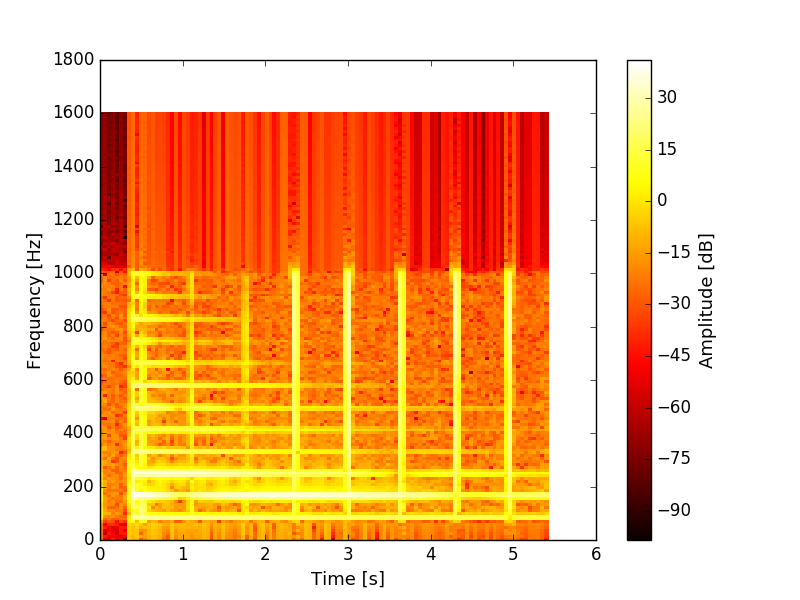
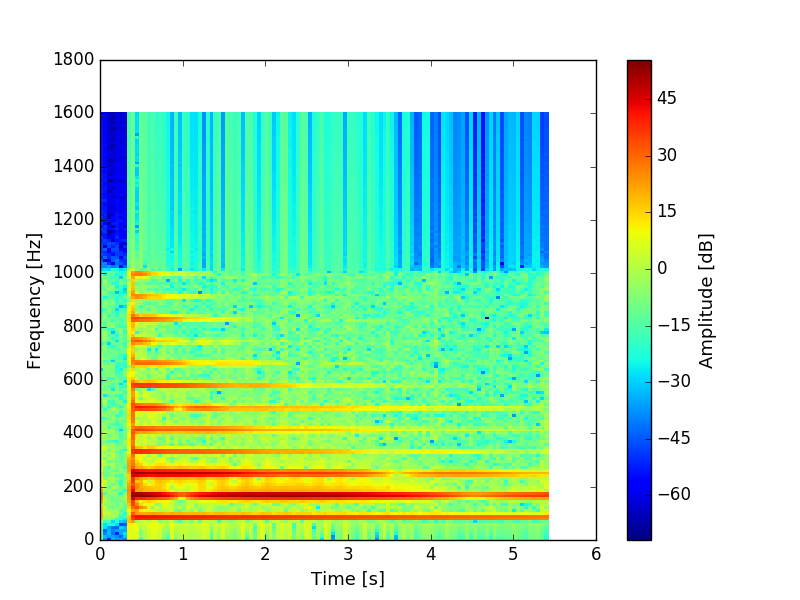
T

diff --git a/Rapport/sections/mainmatter/chapter_10/Peak_detection_algorithm.tex b/Rapport/sections/mainmatter/chapter_10/Peak_detection_algorithm.tex
@@ -1,16 +1,16 @@
 \label{sec:peak_detection}
-In this section a tone-locating algorithm will be implemented by peak amplitude detection.
-This is further tested with the specifications given in section \ref{sec:testspec}.
+In this section a simplified tone-locating algorithm will be implemented by peak amplitude detection.
+The algorithm is tested with the specifications given in section \ref{sec:testspec}.
 %The integration is validated according to the test specifications in \ref{ch3}
 \subsection{Implementation of peak detection}
-To figure out which single tone is being played in a given audio file at a given time, the STFT is analyzed, and the peak amplitude of a given time is detected.
+To figure out which single tone is being played in a given audio file at a given time, the STFT is analysed, and the peak amplitude of a given time is detected.
 The visualization of this is a plot of the peaks in the output spectrogram over time.
 \\ \\
 The frequency with the highest amplitude, and henceforth the largest amount of energy, is the most represented frequency. 
 In an audio file this will be the frequency of the tone being played or one of the harmonics of this frequency, cf. chapter \ref{ch2}.
 This assumption will hold as long as the signal-to-noise ratio, SNR, of the signal is not smaller than a given lower limit, which is further explored in chapter \ref{ch11}. \\
-With the signal transformed by the STFT each segmented data set corresponds to a FFT of a given time, and hence finding the peak amplitude and the corresponding frequency makes it possible to determine the tone being played at a given time. Due to the trade-off between time and frequency resolution stated in theorem \ref{theo:Heisenberg} the located frequency is an approximation, and hence the frequency needs to be compared with the expected frequency. 
-This will make an approximation of the tone a possibility even though the resolution in frequency is rather low.
+With the signal transformed by the STFT each segmented data set corresponds to a FFT of a given time, and hence finding the peak amplitude and the corresponding frequency makes it possible to determine the tone being played at a given time. Due to the trade-off between time and frequency resolution stated in theorem \ref{theo:Heisenberg} the located frequency is an approximation, and hence the frequency needs to be compared with the frequencies that could be expected from the guitar.
+The use of such "code book" will make an approximation of the tone a possibility even though the resolution in frequency is rather low.
 \\ \\
 To make sure that the amplitude actually is from a tone being played and not from noise in the signal, a check can be implemented in the algorithm such that the amplitude is set to $0$ if the amplitude is not larger than a given limit.
 This in turn will reduce the amount of noise slipping through the algorithm for signals with a low SNR.
@@ -42,9 +42,9 @@ An algorithm for locating the frequency with the largest amplitude is implemente
 \end{algorithm}
 
 %An argument coud be made for looking at the 3+ higest frequencies in the signal.
-\subsection{Validation of peak detection algorithm}
-The algorithm is tested as stated by the specifications in section \ref{sec:testspec} by feeding a STFT of a noise filled audio file containing an $E_2$ tone being played on a guitar.
-The expected result of this test is either the fundamental frequency of $82.41$ Hz or an harmonic of this as explained in chapter \ref{ch2}. The first 2 harmonics of the tone $E_2$ are $82.41 \cdot 2 = 164.82$ Hz and $82.41 \cdot 3 = 247.23$ Hz.
+\subsection{Test of peak detection algorithm}
+The algorithm is tested as stated by the specifications in section \ref{sec:testspec} by feeding a STFT of a noise filled audio file containing an low E tone being played on a guitar.
+The expected result of this test is either the fundamental frequency of $82.41$ Hz or an harmonic of this as explained in chapter \ref{ch2}. The first two harmonics of the low E are $82.41 \cdot 2 = 164.82$ Hz and $82.41 \cdot 3 = 247.23$ Hz.
 
 \begin{figure}[H]
 \centering
@@ -70,16 +70,16 @@ The expected result of this test is either the fundamental frequency of $82.41$ 
 \label{fig:freq_25dB_Amp_pass}
 
 \end{subfigure}
-\caption{Peak detection of spectrogram of $E_2$ with different amplitude limits.}
+\caption{Peak detection of spectrogram of a low E with different amplitude limits.}
 \label{fig:valdation_peak_detection}
 \end{figure}
 
 Figure \ref{fig:valdation_peak_detection} shows the effect of different cut-off limits. The most represented frequencies in figure \ref{fig:freq_-3dB_Amp_pass} are $158.76$ Hz followed by $246.96$ Hz and $88.2$ Hz. 
-Knowing that the tone being played is $E_2$ with the previously mentioned fundamental frequency and harmonics, an error margin of around $6$ Hz between the expected output and the actual output can be seen.
-This can be due to either the guitar not playing a clean $E_2$ or the previously mentioned lack of resolution in frequency.
+Knowing that the tone being played is the low E with the previously mentioned fundamental frequency and harmonics, an error margin of around $6$ Hz between the expected output and the actual output can be seen.
+This can be due to either the guitar not playing a clean low E or the previously mentioned lack of resolution in frequency.
 \\
 With a low amplitude limit as shown in figure \ref{fig:freq_-3dB_Amp_pass} none of the maximum amplitudes are removed. This in turn makes any noise in the system able to be represented as a peak even though nothing is being played by the guitar.
-Figure \ref{fig:freq_25dB_Amp_pass} is more akin to an expected result as it does not show any spikes but the figure also only shows the harmonics of the $E_2$ tone.
+Figure \ref{fig:freq_25dB_Amp_pass} is more akin to an expected result as it does not show any spikes but the figure also only shows the harmonics of the low E.
 Therefore, if the limit is too large, the tone being played is cut short when the amplitude of the tone descends as the tone lingers.
 \\
 To summarize, a compromise between letting noise pass the peak detection and cutting the tone short has to be made in order to make sure that the correct frequencies are located and the length of the tone is maintained. From this the implementation of the peak detection is found to work as intended.

diff --git a/Forsøg/AFLEVERINGS MAPPE/Final_Script.py b/Forsøg/AFLEVERINGS MAPPE/Final_Script.py
@@ -24,6 +24,8 @@ import scipy.io.wavfile as siw
 freq , data  = siw.read('Lydfiler/enkelt_tone/forsoeg_enkelt_dyb.wav')   # Data signal
 freq2, noise = siw.read('Lydfiler/stoej/klap_takt_2.wav')                # Noise signal
 
+noise = noise*0
+
 # TEST 1 
 #freq , data  = siw.read('Lydfiler/skala/forsoeg_skala_hurtig.wav')     # Data signal
 #freq2, noise = siw.read('Lydfiler/stoej/klap_takt_2.wav')              # Noise signal
@@ -125,12 +127,12 @@ print('Data filtreret 6/9')
 # Plt plots af alt det intresante og data gemmes
 #==============================================================================
 """ Impulse respose of filter """
-plt.plot(h[:sampels/2])
-plt.xlabel('Sampels [n]')
-plt.ylabel('Amplitude')
-plt.axis([0,M+100,-0.015,0.046])
-#plt.savefig("figures/filter_test/impulse.png")
-plt.show()
+#plt.plot(h[:sampels/2])
+#plt.xlabel('Sampels [n]')
+#plt.ylabel('Amplitude')
+#plt.axis([0,M+100,-0.015,0.046])
+##plt.savefig("figures/filter_test/impulse.png")
+#plt.show()
 
 
 """ Frequency respose of filter """
@@ -228,7 +230,7 @@ X = db(np.abs(X).T)                                         # Calculated to dB
 x = np.linspace(0,tid[-1],np.shape(X)[1])       
 y = np.linspace(0,freq_axis[-1],np.shape(X)[0]) 
 
-spec = plt.pcolormesh(x,y[freq_inter1:freq_inter2],X[freq_inter1:freq_inter2],cmap='hot')
+spec = plt.pcolormesh(x,y[freq_inter1:freq_inter2],X[freq_inter1:freq_inter2],cmap='jet')
 cb   = plt.colorbar(spec)
 cb.set_label(label = 'Amplitude [dB]', fontsize=fontsize)
 plt.xlabel('Time [s]', fontsize = fontsize)
@@ -243,10 +245,10 @@ plt.show()
 # Peak Dectection
 #==============================================================================
 
-max_freq_t = peak_dec(X,15,y)
+max_freq_t = peak_dec(X,-3,y)
 
 """ plot peak dection """
-plt.stem(x,max_freq_t)
+plt.plot(x,max_freq_t,'o')
 plt.xlabel('Time [s]')
 plt.ylabel('Frequency [Hz]')
 #plt.savefig("figures/integrationstest/peak_dec.pdf")

diff --git a/Rapport/sections/mainmatter/chapter_10/Filterdesign.tex b/Rapport/sections/mainmatter/chapter_10/Filterdesign.tex
@@ -57,7 +57,7 @@ ymax=5.5]
 The implementation of the filter basically follows algorithm \ref{alg:FIR}. The ideal impulse response is defined as the inverse Fourier transformation of the ideal filter specified in figure \ref{fig:spec_Hd}. The derivation of the ideal impulse response of a bandpass filter is shown in appendix \ref{appC}. From the given specifications the shape parametere of the kaiser window becomes $\beta \approx 1.5$ which gives a filter order of 2766. Figure \ref{fig:FIRimpulse} show the impulse response of the filter. Figure \ref{fig:freq_filt1} illustrates a plot of the amplitude response corresponding to the filter in the frequency domain. Figure \ref{fig:freq_filt2} illustrates a close-up view of the left transitionband, showing the ripples in the stop- and passband. The boundaries from the specifications are marked by the green lines. It is seen that the specifications are fulfilled. 
 \begin{figure}[h]
 \centering 
-\includegraphics[scale=0.4]{figures/filtertest/impulse.png}
+\includegraphics[scale=0.5]{figures/filtertest/impulse.png}
 \caption{Impulse response of filter with order $M=2766$}
 \label{fig:FIRimpulse}
 \end{figure}
@@ -118,7 +118,7 @@ The implementation of the filter basically follows algorithm \ref{alg:FIR}. The 
 \end{algorithmic}
 \end{algorithm}
 
-\subsection{Test of the filter}
+\subsection{Test of filter}
 The implemented filter is tested according to the test specifications described in section \ref{sec:testspec}. Figure \ref{fig:SIGNAL} shows the frequency spectrum of the single low E tone with additive noise in form of a beat of hands clapping. Figure \ref{fig:filt_SIGNAL} shows the filtered signal. Note that the frequency spectrum are only showed from 0 to approximately 2200 Hz.  
 
 \begin{figure}[H]

diff --git a/Rapport/sections/mainmatter/chapter_10/FFT_imp.tex b/Rapport/sections/mainmatter/chapter_10/FFT_imp.tex
@@ -63,7 +63,7 @@ $2^{12}$   & $69.42$   & $0.07$  & $\sim 0.00$ \\ \hline
 $2^{13}$   & $290.89$  & $0.18$  & $\sim 0.00$ \\ \hline
 $2^{14}$   & $1206.85$ & $0.27$  & $\sim 0.00$ \\ \hline
 \end{tabular}
-\caption{Times in seconds it take for the implementations of the DFT, the FFT and Numpy's FFT to compute $N$ random numbers.}
+\caption{Times in seconds it take for the implementations of the DFT, the FFT and Numpy's FFT to compute $N$ random numbers. Processor used: Intel Core I5 generation 5 with CPU of 2.20 GHz}
 \label{tab:FTcompare}
 \end{table}
 
@@ -84,7 +84,7 @@ $2^{21}$   & $40.31$   & $0.26$ \\ \hline
 $2^{22}$   & $79.59$   & $0.56$ \\ \hline
 $2^{23}$   & $159.39$  & $1.08$ \\ \hline
 \end{tabular}
-\caption{Times in seconds it take for the implementation of the FFT and Numpy's FFT to compute $N$ random numbers.}
+\caption{Times in seconds it take for the implementation of the FFT and Numpy's FFT to compute $N$ random numbers. Processor used: Intel Core I5 generation 5 with CPU of 2.20 GHz}
 \label{tab:FT2compare}
 \end{table}
 
